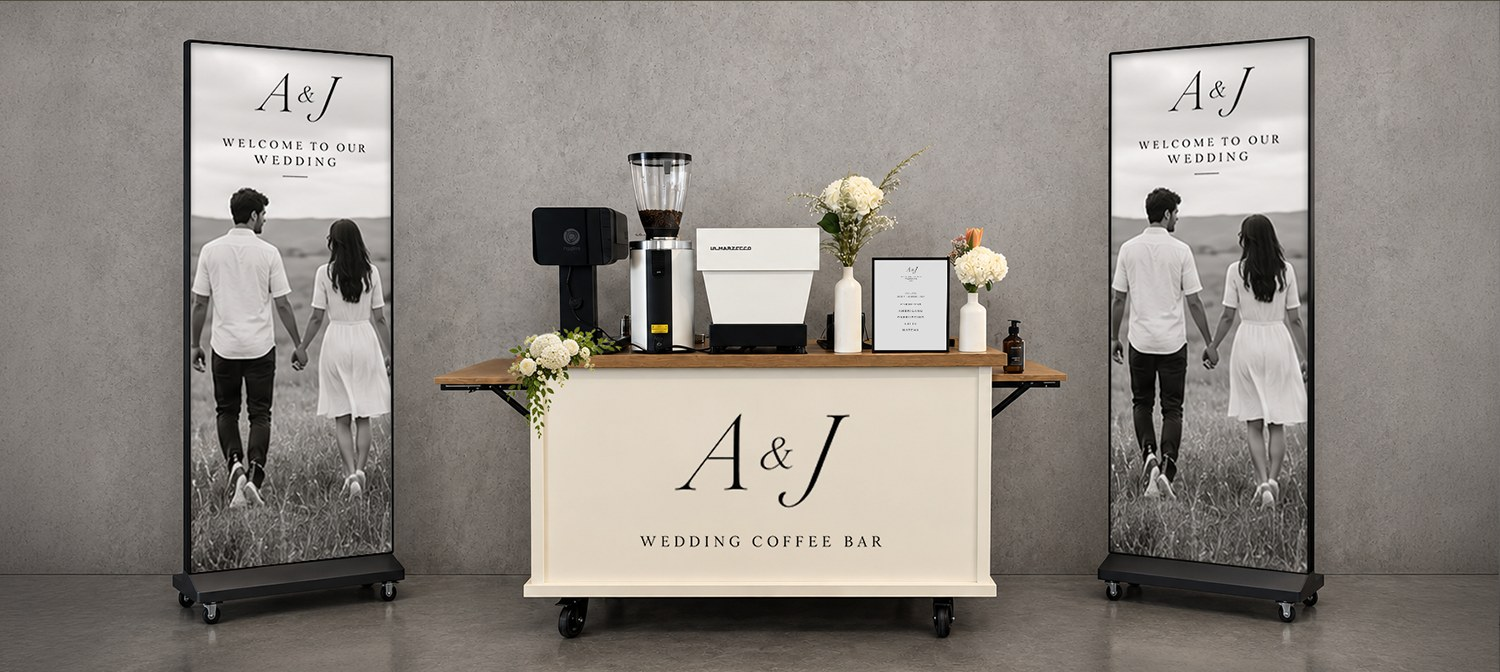
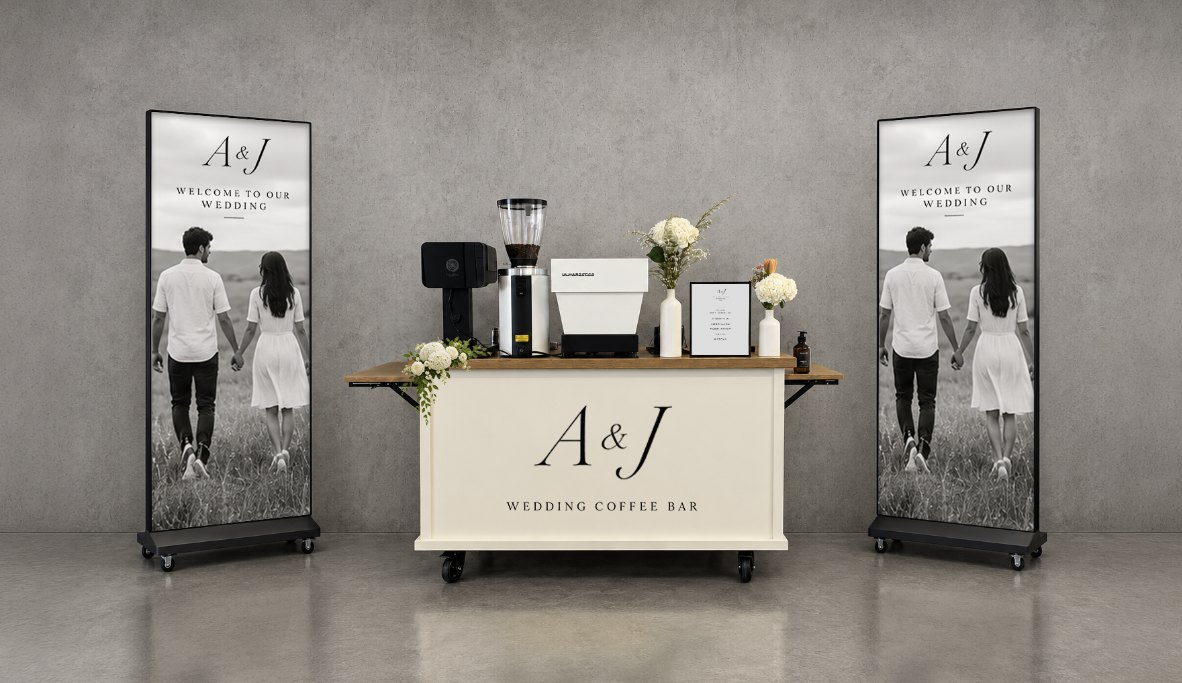
Update wedding page cart render image

diff --git a/wedding-coffee-cart-catering.html b/wedding-coffee-cart-catering.html
@@ -204,7 +204,7 @@
 
 <section class="section">
   <div class="container split">
-    <div class="ph-photo" style="aspect-ratio:1500/672;"><img src="assets/wedding-coffee-cart-led-screens-custom-monogram-los-angeles.jpg" alt="Good Pick wedding coffee bar with a custom monogram cart wrap and two LED screens showing a couple, Los Angeles wedding coffee cart" width="1500" height="672" loading="eager"></div>
+    <div class="ph-photo" style="aspect-ratio:1182/683;"><img src="assets/wedding-coffee-cart-led-screens-custom-monogram-los-angeles.jpg" alt="Good Pick wedding coffee bar with a custom monogram cart wrap and two LED screens showing a couple, Los Angeles wedding coffee cart" width="1182" height="683" loading="eager"></div>
     <div>
       <span class="tag-pill">Wedding Coffee Bar</span>
       <h2>Made for Your Love Story</h2>
